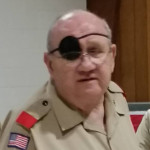
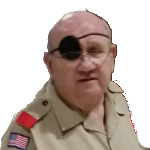
add profile pics

diff --git a/leaderbio/leaderbio.js b/leaderbio/leaderbio.js
@@ -32,6 +32,7 @@ var leaderbio = {
           lastName: 'Kee',
         }
       ],
+      profilepic: 'images/profile/RobKee.jpg',
       oa: 'brotherhood',
     },
     {
@@ -88,29 +89,6 @@ var leaderbio = {
       oa: 'brotherhood',
     },
     {
-      firstName: 'George',
-      lastName: 'Ciupinksi',
-      positions: [
-        {
-          position: 'Assistant Scoutmaster',
-          tenure: {
-            start: 2013
-          },
-        },
-      ],
-      sons: [
-        {
-          firstName: 'Stephen',
-          lastName: 'Ciupinksi',
-          yearEagle: 2018,
-        },
-      ],
-      joinedUnit: 2012,
-      oa: 'brotherhood',
-      occupation: 'IT Director',
-      employer: 'Chanel, Inc.'
-    },
-    {
       firstName: 'Andrew',
       lastName: 'Goldstein',
       positions: [
@@ -137,6 +115,7 @@ var leaderbio = {
         {
           firstName: 'Adam',
           lastName: 'Goldstein',
+          yearEagle: 2018,
         }
       ],
       joinedUnit: 2010,
@@ -195,6 +174,7 @@ var leaderbio = {
       ],
       joinedUnit: 2013,
       oa: 'brotherhood',
+      profilepic: 'images/profile/ScottHarrington.jpg',
     },
     {
       firstName: 'Ken',
@@ -221,6 +201,7 @@ var leaderbio = {
       ],
       joinedUnit: 1998,
       oa: 'brotherhood',
+      profilepic: 'images/profile/KenKinneman.jpg',
     }, {
       firstName: 'Mark',
       lastName: 'Mills',
@@ -242,6 +223,7 @@ var leaderbio = {
       employer: 'Davis Polk & Wardwell LLP',
       occupation: 'Information Systems Trainer',
       oa: 'brotherhood',
+      profilepic: 'images/profile/MarkMills.jpg',
     },
     {
       firstName: 'Frank',
@@ -263,6 +245,40 @@ var leaderbio = {
       ],
       joinedUnit: 2007,
       oa: 'brotherhood',
+      profilepic: 'images/profile/FrankNastro.jpg',
+    },
+    {
+      firstName: 'Richard',
+      lastName: 'Proce',
+      positions: [
+        {
+          position: 'Assistant Scoutmaster',
+          tenure: {
+            start: 2018
+          },
+        },
+        {
+          position: 'Committee Member',
+          tenure: {
+            start: 2017,
+            end: 2018,
+          },
+        }
+      ],
+      sons: [
+        {
+          firstName: 'Ryan',
+          lastName: 'Proce',
+        },
+        {
+          firstName: 'Sean',
+          lastName: 'Proce',
+        }
+      ],
+      joinedUnit: 2014,
+      oa: 'brotherhood',
+      occupation: 'Engineer',
+      employer: 'Verizon',
     },
     {
       firstName: 'Larry',
@@ -328,6 +344,7 @@ var leaderbio = {
       oa: 'brotherhood',
       employer: 'Spirent Communications',
       occupation: 'Electronics Engineer',
+      profilepic: 'images/profile/JoeLandi.jpg',
     },
     {
       firstName: 'Dan',
@@ -389,6 +406,44 @@ var leaderbio = {
       joinedUnit: 2007,
       employer: 'Badum Creative Group',
       occupation: 'Owner',
+      profilepic: 'images/profile/RonBadum.jpg',
+    },
+    {
+      firstName: 'George',
+      lastName: 'Ciupinksi',
+      positions: [
+        {
+          position: 'Committee Member',
+          tenure: {
+            start: 2018
+          }
+        },
+        {
+          position: 'Life to Eagle Committee',
+          tenure: {
+            start: 2018,
+          },
+        },
+        {
+          position: 'Assistant Scoutmaster',
+          tenure: {
+            start: 2013,
+            end: 2018,
+          },
+        },
+      ],
+      sons: [
+        {
+          firstName: 'Stephen',
+          lastName: 'Ciupinksi',
+          yearEagle: 2018,
+        },
+      ],
+      joinedUnit: 2012,
+      oa: 'brotherhood',
+      occupation: 'IT Director',
+      employer: 'Chanel, Inc.',
+      profilepic: 'images/profile/GeorgeCiupinski.JPG',
     },
     {
       firstName: 'Nick',
@@ -420,6 +475,7 @@ var leaderbio = {
         },
       ],
       joinedUnit: 1984,
+      profilepic: 'images/profile/NickDiFranco.jpg',
     },
     {
       firstName: 'Debbie',
@@ -477,6 +533,7 @@ var leaderbio = {
       oa: 'brotherhood',
       occupation: "Lawyer, Partner",
       employer: "K&L Gates LLP",
+      profilepic: 'images/profile/FredGiordano.jpg'
     },
     {
       firstName: 'Lisa',
@@ -536,6 +593,26 @@ var leaderbio = {
       joinedUnit: 2004,
     },
     {
+      firstName: 'Brian',
+      lastName: 'Meek',
+      positions: [
+        {
+          position: 'Committee Member',
+          tenure: {
+            start: 2018,
+          },
+        },
+      ],
+      sons: [
+        {
+          firstName: 'Andrew',
+          lastName: 'Meek',
+        },
+      ],
+      joinedUnit: 2017,
+      profilepic: 'images/profile/BrianMeek.jpg',
+    },
+    {
       firstName: 'Michael',
       lastName: 'Morizio',
       positions: [
@@ -593,6 +670,26 @@ var leaderbio = {
       ],
       joinedUnit: 2012,
       oa: 'ordeal',
+      profilepic: 'images/profile/KevinMulvey.jpg',
     },
-  ]
+    {
+      firstName: 'Bill',
+      lastName: 'Stevenson',
+      positions: [
+        {
+          position: 'Committee Member',
+          tenure: {
+            start: 2018,
+          },
+        },
+      ],
+      sons: [
+        {
+          firstName: 'Ryan',
+          lastName: 'Stevenson',
+        },
+      ],
+      joinedUnit: 2017,
+      profilepic: 'images/profile/BillStevenson.jpg',
+    },  ]
 };
